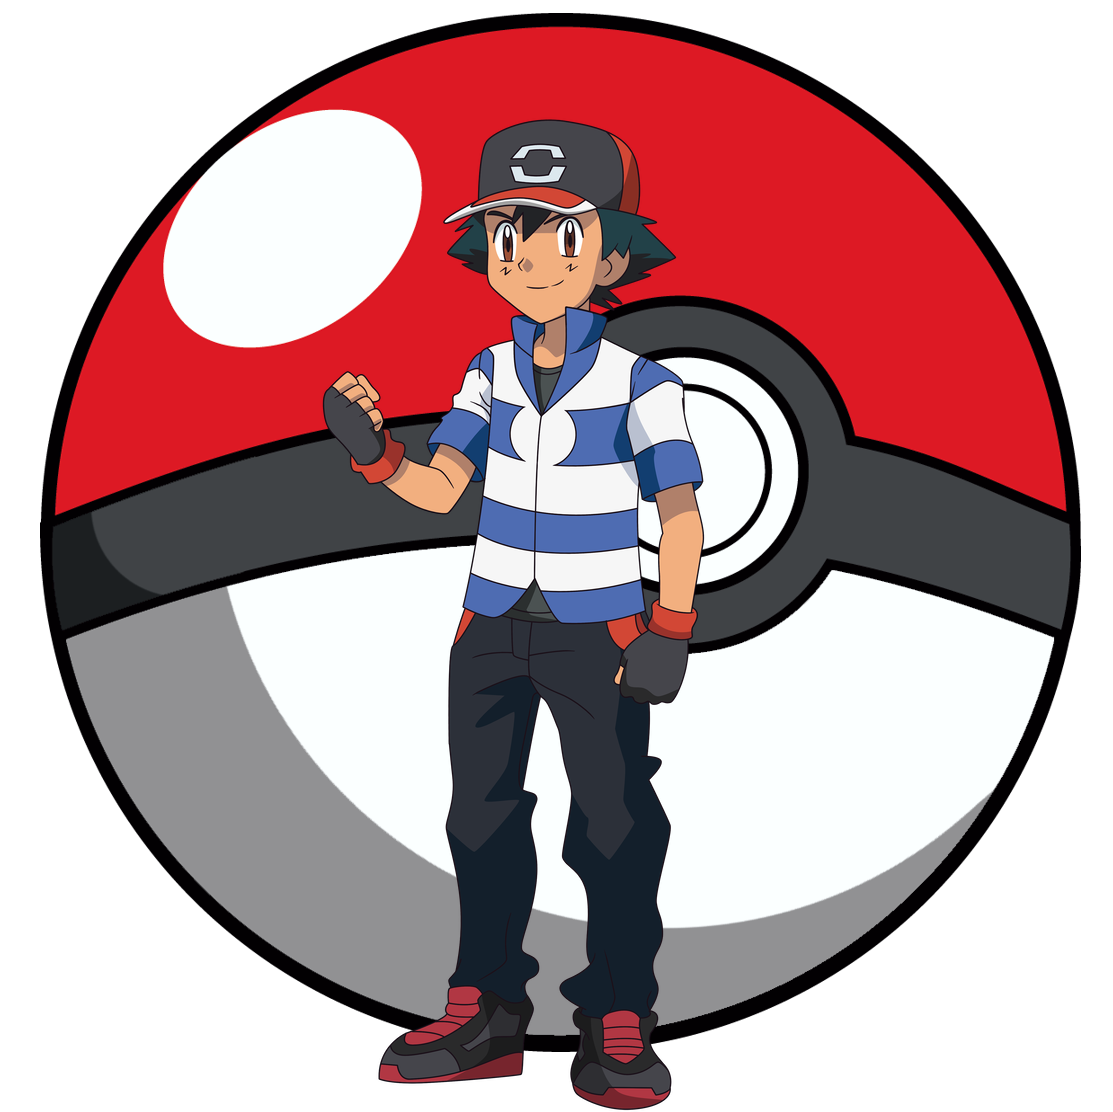
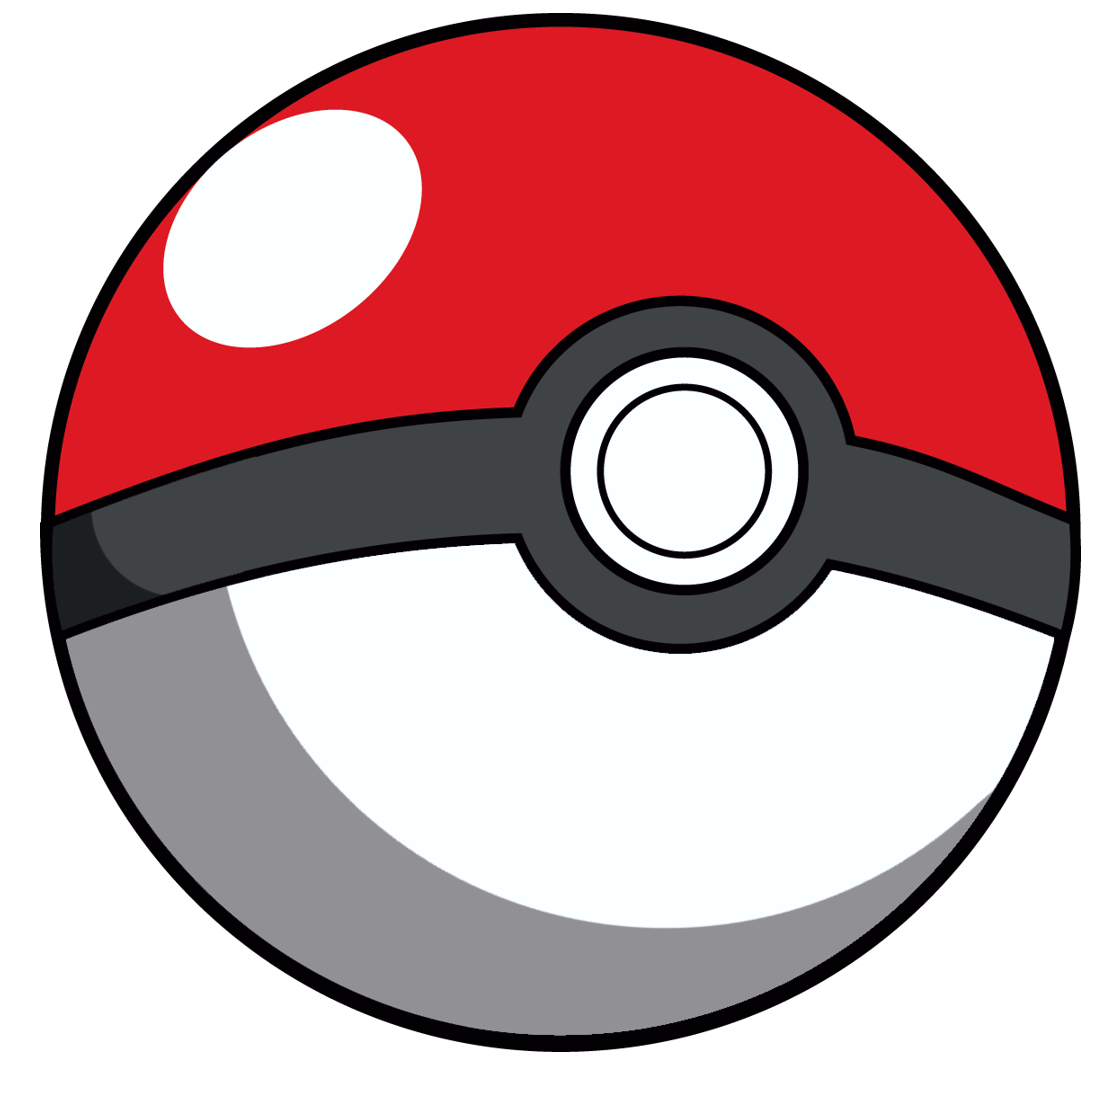
Animando pokebola con lo que trae react por defecto

Changed region(s): [[0.2749, 0.0917, 0.6415, 1.0]]

diff --git a/client/src/Componentes/Landing.jsx b/client/src/Componentes/Landing.jsx
@@ -1,6 +1,7 @@
 import React from "react";
 import { Fragment } from "react/cjs/react.development";
 import Poke from "../poke.png";
+import Entre from "../entre.png";
 import IconoShop from "../Icos/shop.png";
 import IconoPika from "../Icos/pika.png";
 import IconoMail from "../Icos/Mail.png";
@@ -15,7 +16,7 @@ export default function Landing() {
       <div className="hero">
         <div className="left">
           <button className="button1">
-            <img class="btnimg" src={IconoPika} alt="" />
+            <img class="btnimg " src={IconoPika} alt="" />
             Pokemones
           </button>
           <button className="button1">
@@ -26,7 +27,8 @@ export default function Landing() {
 
         <div className="center">
           {" "}
-          <img id="Poke" src={Poke} className="entrenador" alt="" />
+          <img id="Entre" src={Entre} className="entrenador" alt="" />
+          <img id="Poke" src={Poke} className="App-logo" alt="" />
         </div>
 
         <div className="right">

diff --git a/client/src/App.css b/client/src/App.css
@@ -9,13 +9,28 @@ body {
 }
 
 .App-logo {
-  height: 40vmin;
+  position: relative;
   pointer-events: none;
+  height: 450px;
+  z-index: 1;
+  align-content: center;
+  text-align: center;
+  top: 8em;
 }
 
 @media (prefers-reduced-motion: no-preference) {
   .App-logo {
     animation: App-logo-spin infinite 20s linear;
+    z-index: 1;
+  }
+}
+
+@keyframes App-logo-spin {
+  from {
+    transform: rotate(0deg);
+  }
+  to {
+    transform: rotate(360deg);
   }
 }
 
@@ -95,13 +110,14 @@ body {
 .left {
   float: left;
   flex-direction: column;
-  margin: 1em;
+  margin: 2em;
+  z-index: 1;
 }
 
 .right {
   float: right;
   flex-direction: column;
-  margin: 1em;
+  margin: 2em;
   z-index: 1;
 }
 .center {
@@ -152,10 +168,10 @@ body {
 }
 
 .entrenador {
-  position: relative;
+  position: absolute;
   z-index: 2;
   top: 5em;
-  height: 500px;
+  height: 450px;
   margin: 4em;
 }
 
